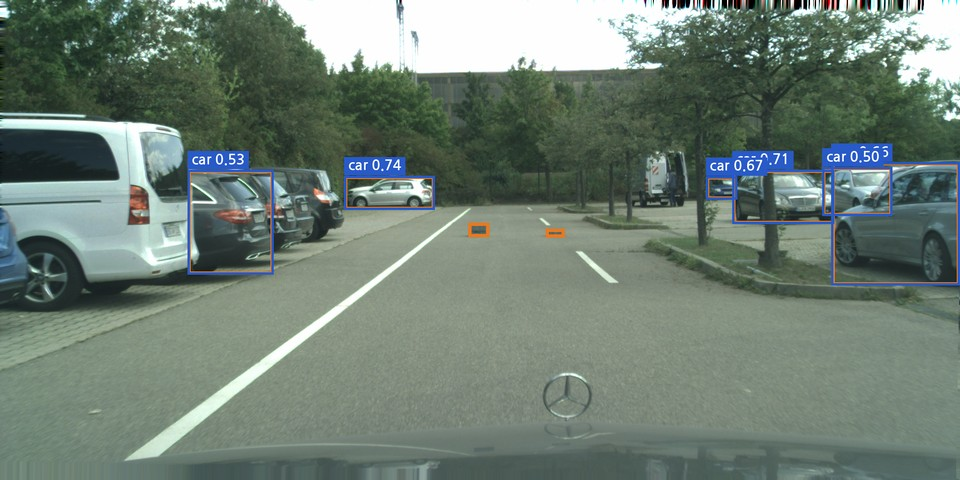
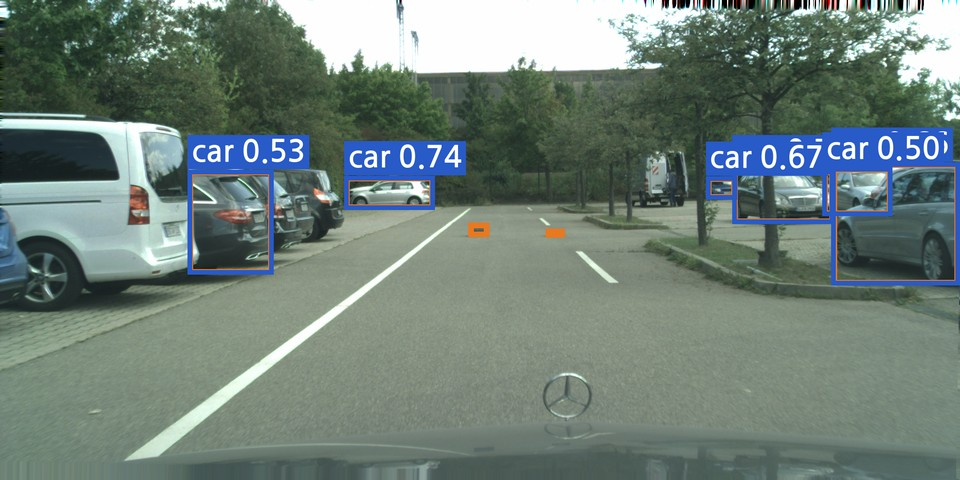
Talk figures: larger box labels and crops for the restyled deck

diff --git a/src/make_talk_figures.py b/src/make_talk_figures.py
@@ -148,23 +148,25 @@ def fig_pipeline():
     print('pipeline', [(int(i), on_gt(d['bboxes'][i], gt), i in keep) for i in cand])
     im = img.copy(); dr = ImageDraw.Draw(im)
     for i in cand:
-        draw_box(dr, d['bboxes'][i], ORANGE, 7)
+        draw_box(dr, d['bboxes'][i], ORANGE, 12)
     for i in cand:
         bj = best_id_over(d, i, 'paper')
         if bj and i not in keep:
-            draw_box(dr, d['bboxes'][bj[0]], BLUE, 5, f"{CLASSES[d['labels'][bj[0]]]} {d['scores'][bj[0]]:.2f}", 30)
+            draw_box(dr, d['bboxes'][bj[0]], BLUE, 10, f"{CLASSES[d['labels'][bj[0]]]} {d['scores'][bj[0]]:.2f}", 64)
     save(im, 'pipe_1_candidates.jpg')
     im = img.copy(); dr = ImageDraw.Draw(im)
     for i in cand:
         if i in keep:
-            draw_box(dr, d['bboxes'][i], ORANGE, 8)
+            draw_box(dr, d['bboxes'][i], ORANGE, 14)
         else:
-            draw_box(dr, d['bboxes'][i], GRAY, 5, dashed=True)
+            draw_box(dr, d['bboxes'][i], GRAY, 9, dashed=True)
             x1, y1, x2, y2 = d['bboxes'][i]
-            dr.line([(x1, y1), (x2, y2)], fill=GRAY, width=5); dr.line([(x1, y2), (x2, y1)], fill=GRAY, width=5)
+            dr.line([(x1, y1), (x2, y2)], fill=GRAY, width=8); dr.line([(x1, y2), (x2, y1)], fill=GRAY, width=8)
     save(im, 'pipe_2_after_nms.jpg')
     m = cv2.imread('results/F1/masks/fs_lostfound/paper/60.png', 0) > 127
     save(overlay(img, m, RED, 0.6), 'pipe_3_mask.jpg')
+    for n in ('pipe_1_candidates', 'pipe_2_after_nms', 'pipe_3_mask'):
+        Image.open(f'{OUT}/{n}.jpg').crop((80, 100, 880, 480)).save(f'{OUT}/{n}_crop.jpg', quality=92)
 
 
 def fig_cause():
